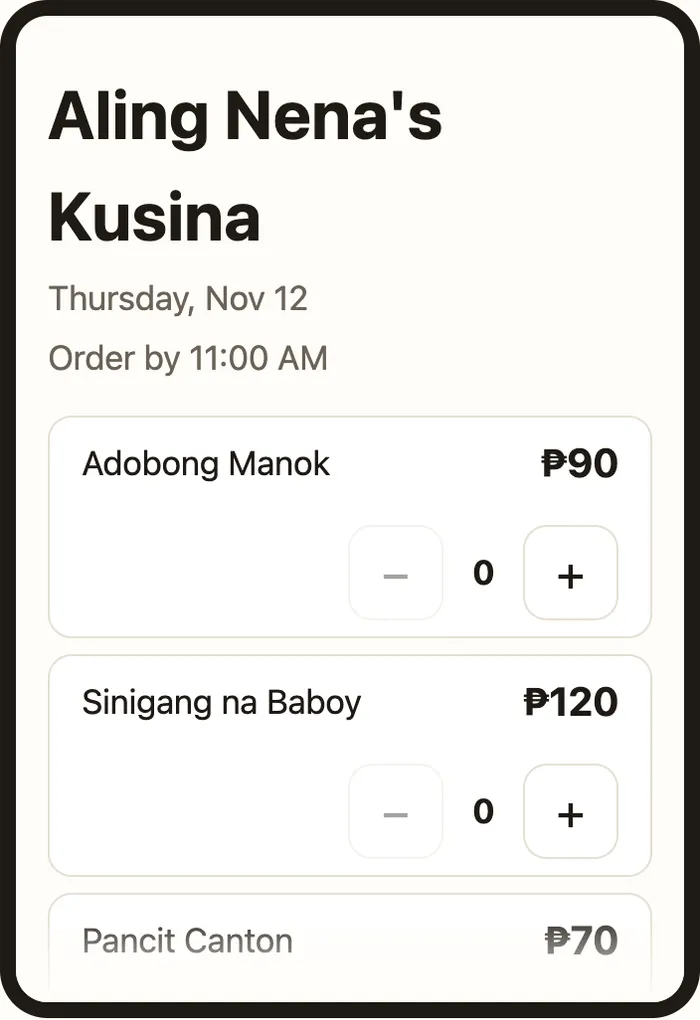
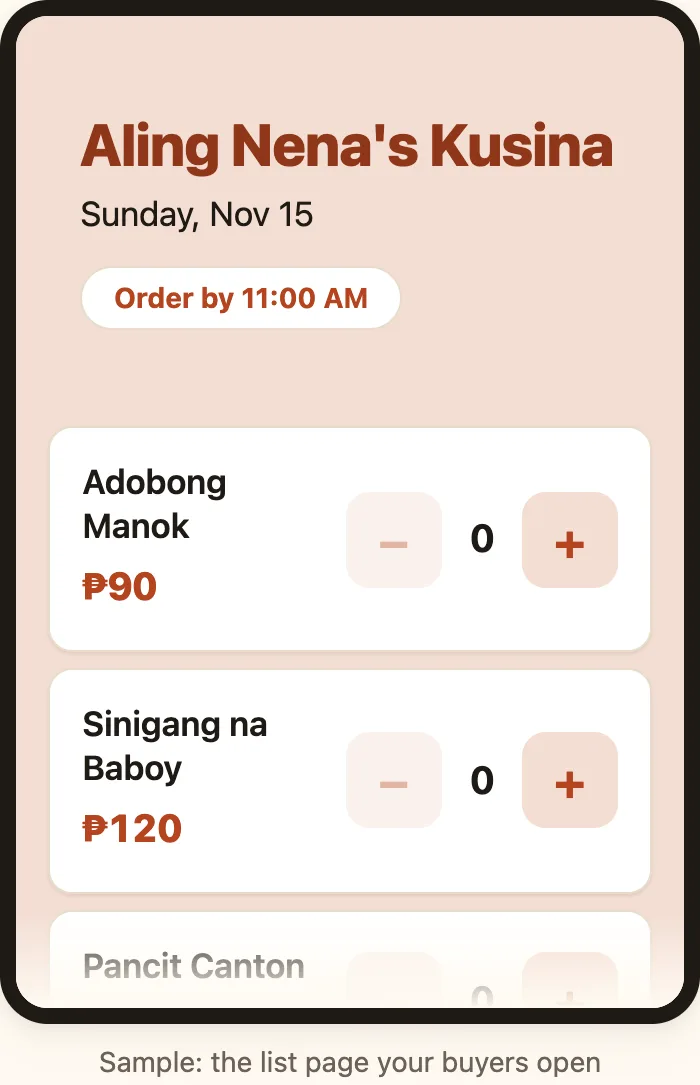
Tinda pages: new screenshots, guide and privacy match the app as of 15 Nov
- Fresh captures of the live home page and guide samples, plus a
  personalize sample.
- Guide follows the app guide and adds rename, terms tick box, item
  descriptions, Make it yours (fonts, backgrounds), buyer notes and
  pickup place.
- Privacy copy matches the app page (order note, backup GCash number,
  reports, Delete my shop).
- How it's built: functions now run in Singapore; privacy row lists the note.

diff --git a/tinda/user_guide.html b/tinda/user_guide.html
@@ -9,9 +9,9 @@
 <link rel="icon" type="image/png" sizes="16x16" href="../assets/favicon/favicon-16.png">
 <link rel="apple-touch-icon" href="../assets/favicon/apple-touch-icon.png">
 <title>Tinda — User Guide — calmdownoscar</title>
-<meta name="description" content="How to use Tinda: set up your shop, add your payment QR, post today&rsquo;s list, share the link, confirm payments and see what to prepare.">
+<meta name="description" content="How to use Tinda: set up your shop, add your payment QR, post today&rsquo;s list, share your list, confirm payments and see what to prepare.">
 <meta property="og:title" content="Tinda — User Guide">
-<meta property="og:description" content="How to use Tinda: set up your shop, add your payment QR, post today&rsquo;s list, share the link, confirm payments and see what to prepare.">
+<meta property="og:description" content="How to use Tinda: set up your shop, add your payment QR, post today&rsquo;s list, share your list, confirm payments and see what to prepare.">
 <meta property="og:type" content="website">
 <meta property="og:url" content="https://www.calmdownoscar.com/tinda/user_guide.html">
 <meta property="og:image" content="https://www.calmdownoscar.com/assets/og/calmdownoscar.jpg">
@@ -69,112 +69,130 @@
         <li><a href="#setup">Sign in and set up your shop</a></li>
         <li><a href="#qr">Add your payment QR</a></li>
         <li><a href="#post">Post today&rsquo;s list</a></li>
-        <li><a href="#share">Share the link</a></li>
+        <li><a href="#share">Share your list and image</a></li>
+        <li><a href="#style">Make it yours (optional)</a></li>
         <li><a href="#confirm">Confirm payments</a></li>
         <li><a href="#chat">Orders from chat or in person</a></li>
         <li><a href="#tally">See what to prepare</a></li>
         <li><a href="#trial">Your free trial</a></li>
+        <li><a href="#help">If you need help</a></li>
         <li><a href="#install">Install Tinda on your phone</a></li>
-        <li><a href="#help">Troubleshooting</a></li>
       </ol>
       <div class="links"><a class="link in" href="./">Tinda</a><a class="link" href="https://tinda.calmdownoscar.com/">Open Tinda</a><a class="link" href="https://tinda.calmdownoscar.com/guide">Live guide</a><a class="link in" href="privacy.html">Privacy policy</a></div>
     </aside>
     <article class="prose">
 <section id="before">
 <h2>Before you start</h2>
-<p>Have your email or Google account, your shop name, and a picture of your own receiving QR ready. Use your phone&rsquo;s browser and keep an internet connection while you set up.</p>
+<ul>
+<li>Your email and a way to open it, or your Google account.</li>
+<li>Your shop name, product names and prices, and a closing time for orders.</li>
+<li>A picture of your own GCash, Maya or bank receiving QR, saved on your phone.</li>
+<li>Optional: your contact number or Messenger link, and one photo for your shop card.</li>
+</ul>
 </section>
 <section id="setup">
 <h2>1. Sign in and set up your shop</h2>
 <ol>
-<li>Open <a href="https://tinda.calmdownoscar.com/">Tinda</a> on your phone and tap <strong>Start selling — 14 days free</strong>. Tap <strong>Continue with Google</strong>, or enter your email, tap <strong>Email me a 6-digit code</strong> and enter the code sent to you.</li>
-<li>Enter your shop name and choose your shop link, for example <code>tinda.calmdownoscar.com/aling-nena</code>. Check the link carefully: it cannot be changed later.</li>
-<li>Add a Messenger link or mobile number if you want buyers to be able to contact you. Read the terms and house rules, tick the agreement box, then tap <strong>Create my shop</strong>.</li>
+<li>Open Tinda and tap <strong>Start selling &mdash; 14 days free</strong>. Tap <strong>Continue with Google</strong>, or enter your email and tap <strong>Email me a 6-digit code</strong>. The first time, you tick a box to accept the terms. Tap <strong>See the house rules</strong> to read them.</li>
+<li>If using email, open the email, return to Tinda, enter the six digits and sign in.</li>
+<li>Enter your shop name and choose your shop link, for example <code>tinda.calmdownoscar.com/aling-nena</code>. Check the link carefully: you cannot change it later.</li>
+<li>Optionally add a mobile number or Messenger link so buyers can contact you. Read the terms, tick the agreement box, and tap <strong>Create my shop</strong>.</li>
 </ol>
+<p>You can rename your shop later from your seller home. Your shop link stays the same.</p>
 </section>
 <section id="qr">
 <h2>2. Add your payment QR</h2>
 <ol>
-<li>Save a picture of the GCash, Maya or bank QR that receives payments into <em>your</em> account.</li>
-<li>Open <strong>Today&rsquo;s list</strong> and scroll to <strong>3. Payment</strong>. Tap <strong>Choose QR picture</strong>, choose your saved picture and wait for <strong>QR saved &#10003;</strong>. You can manage and name up to five QRs from the payment page.</li>
-<li>Optionally add your GCash mobile number as a backup if a QR does not scan. Buyers see these details after they order.</li>
+<li>In your GCash, Maya or bank app, save your receiving QR as a picture on your phone.</li>
+<li>Open <strong>Today&rsquo;s list</strong> and scroll to <strong>4. Payment</strong>. Tap <strong>Choose QR picture</strong>, choose the saved image, and wait for <strong>QR saved &#10003;</strong>. You need at least one receiving QR before you can publish. Buyers see it after they order and pay you directly.</li>
+<li>To manage or change your QRs, open the <a href="https://tinda.calmdownoscar.com/seller/payment">Payment</a> page. You can add up to five QRs and a backup GCash number.</li>
 </ol>
-<p>Use your own receiving QR here. The QR under <strong>Plan and payment</strong> is for paying Tinda&rsquo;s fee; it is not the QR your buyers should pay.</p>
+<p>This is your QR for receiving buyer payments. It is separate from the Tinda QR used to pay for your plan.</p>
 </section>
 <section id="post">
-<h2>3. Make today&rsquo;s list</h2>
+<h2>3. Post today&rsquo;s list</h2>
 <ol>
-<li>On your shop page, tap <strong>Today&rsquo;s list</strong>.</li>
-<li>Under <strong>Your items</strong>, paste one item and its price per line, for example:
+<li>From your shop page, open <strong>Today&rsquo;s list</strong>. In the paste box, put one product and its price on each line. For example:
 <pre>Rice 1 kg 60
 Toilet paper 4 rolls 50
 Adobo 90</pre>
-Tap <strong>Read my post</strong>. You can also tap <strong>or type items</strong> to enter them one by one.</li>
-<li>Check every name and price. Add any line Tinda could not read. Tick <strong>Heading</strong> only for a section title such as &ldquo;Drinks&rdquo;, not for a product. You can optionally set stock limits or hide an item.</li>
-<li>Under <strong>Orders and delivery</strong>, set <strong>Stop taking orders at</strong> to a time still ahead today and choose how long to <strong>Hold unpaid orders for</strong>. If you deliver, tick <strong>I deliver</strong> and add delivery times.</li>
-<li>Optional: turn on <strong>Keep my list up</strong> to copy the list each night with remaining stock. It stops 30 days after your latest manual publish, or if your plan expires. Check the date shown in Tinda; publish an updated list to extend or restart it.</li>
-<li>Under <strong>Payment</strong>, check your receiving QR. Under <strong>Photo of your products (optional)</strong>, you can add one shop photo to the menu image. This is not a separate photo for each item.</li>
-<li>Tap <strong>See what buyers will see</strong> and check the result. Tap it again after making changes. If you are not ready, tap <strong>Save for later</strong>; your draft stays private. When ready, tap <strong>Publish</strong>. After changes to a published list, tap <strong>Update list</strong>.</li>
+</li>
+<li>Tap <strong>Read my post</strong>. Or tap <strong>or type items</strong> to enter them one by one.</li>
+<li>Check every name and price and correct any mistakes. Tick <strong>Heading</strong> for a section title that is not a product, such as Drinks. Optionally enter how many of each item you have. Each item can have a short description (up to 120 characters). Buyers see it under the item name.</li>
+<li>Under Orders and delivery, set <strong>Stop taking orders at</strong> to a time later than now. Choose how long to <strong>Hold unpaid orders for</strong>. Pickup is available; if you deliver, tick <strong>I deliver</strong> and add delivery times. If you offer pickup, add your pickup place under Orders and delivery (up to 120 characters). It shows only on pickup receipts.</li>
+<li>Optionally tick <strong>Keep my list up</strong>. Each night Tinda puts up a copy for the next day with the stock left. It starts after you publish, and stops if you do not publish again for 30 days or your plan is unpaid. Publish again to restart or extend it.</li>
+<li>Optionally add one photo of your products for your shop card. This is one shop picture, not a photo for each item.</li>
+<li>Check the preview that appears beside your list. Tap <strong>Save for later</strong> to keep a draft private, or <strong>Publish</strong> to make it available to buyers. After changing a published list, tap <strong>Update list</strong>.</li>
 </ol>
-<p>Tomorrow, tap <strong>Copy yesterday&rsquo;s list</strong> on your shop page, change what is different and publish, or use <strong>Keep my list up</strong>.</p>
 </section>
 <section id="share">
-<h2>4. Save your menu image and share the link</h2>
+<h2>4. Share your list and image</h2>
 <ol>
-<li>After publishing, open the sharing options and tap <strong>Save menu image</strong>. The picture includes your list and prices. It can grow to show up to 50 rows, including headings.</li>
-<li>Look for the downloaded picture in your phone&rsquo;s Downloads or Files as well as Photos. If the picture opens instead of downloading, use your browser&rsquo;s image menu to save it; the steps vary by phone and browser.</li>
-<li>Tap <strong>Copy link</strong>. Open Facebook, Messenger or Viber, tap the app&rsquo;s photo button and attach the saved picture to your post or message, then touch and hold in the text area and tap Paste to add the clickable link. Send or post both so buyers can open the link and order.</li>
-<li>On supported phones, you can also tap <strong>Share&hellip;</strong> to choose where to share the link.</li>
+<li>After publishing, tap <strong>Copy link</strong>. Open your Facebook, Messenger or Viber group or chat, touch and hold the message box, then paste the link and send or post it. You can also use <strong>Share&hellip;</strong> if it appears on your phone.</li>
+<li>Tap <strong>Save menu image</strong> to download a picture of your list. Look in Files or Downloads if you cannot find it. On some phones the image opens first; use the phone&rsquo;s image menu to save it.</li>
+<li>In your group or chat, use the photo attachment option and choose the saved image. Paste the copied link in the caption or a message, then send or post both so people can see the products and open the full list to order.</li>
 </ol>
+<p>The link preview in a chat may leave out some rows. The saved menu image grows to fit up to 50 rows, including headings; use short names to help them fit. The full list is available through the link.</p>
+<p>After changing a list, tap <strong>Update list</strong>, then save and post a new image. An image already posted does not change. Chat apps may also keep an older cached link preview, even when the list has changed.</p>
 <p><a href="https://tinda.calmdownoscar.com/og/sample?size=square">See an example saved menu image</a>.</p>
-<p>A chat link preview shows only up to six rows, or four when your shop photo is included. Share the link even with the saved picture so buyers can see the full list and order.</p>
-<p>After editing, tap <strong>Update list</strong>, save a new menu image and post it again. Pictures already posted do not change, and a chat service may keep an older cached preview.</p>
 <figure class="wide">
-<img src="../assets/screens/tinda-preview.webp" alt="Example chat preview card for Aling Nena&rsquo;s Kusina showing items and prices" width="1200" height="630" loading="lazy">
-<figcaption class="note-sm">Example: a chat link preview. Your list and appearance will differ.</figcaption>
+<img src="../assets/screens/tinda-preview.webp" alt="Sample menu card for Aling Nena&rsquo;s Kusina showing items and prices" width="1200" height="630" loading="lazy">
+<figcaption class="note-sm">Sample: a link preview card. The saved menu image can show more rows.</figcaption>
+</figure>
+</section>
+<section id="style">
+<h2>Make it yours (optional)</h2>
+<p>On Today&rsquo;s list, or under Menu picture and photo on your seller home, choose the style, colour, font and background of your menu picture and shop page. Fonts: Payak (the default), Bilog, Sulat-kamay, Klasiko and Malaki. Backgrounds: cream (the default) and five other tints. Changes save by themselves, and the preview updates as you go.</p>
+<figure>
+<img src="../assets/screens/tinda-personalize.webp" alt="Sample screen: a menu picture with a shop photo across the top, a custom heading and today&rsquo;s items and prices" width="700" height="545" loading="lazy">
+<figcaption class="note-sm">Sample: a menu picture personalized with a shop photo and heading.</figcaption>
 </figure>
 </section>
 <section id="confirm">
 <h2>5. Confirm payments</h2>
 <ol>
-<li>Open <strong>Orders</strong>. An unpaid order holds its items for a limited time while the buyer pays.</li>
-<li>When a buyer sends a reference number, check the payment in your own GCash, Maya or bank app. If it arrived, tap <strong>Paid &#10003;</strong>.</li>
-<li>If you cannot find it, tap <strong>Can&rsquo;t find it</strong> so the buyer can check and enter the number again, up to three tries in all. If you tapped paid by mistake, tap <strong>Undo</strong> within 10 minutes.</li>
-<li>If no reference arrives in time, the order ends and the items return to the list.</li>
+<li>When a buyer orders, the items are held while they pay. If no reference arrives in time, the order ends and the items return to the list.</li>
+<li>Open <strong>Orders</strong> when a buyer enters a payment reference. Check your GCash, Maya or bank app for the payment, then tap <strong>Paid &#10003;</strong>.</li>
+<li>If you cannot find it, tap <strong>Can&rsquo;t find it</strong>. The buyer can check and enter the reference again, up to three tries in all. If you tap Paid by mistake, tap <strong>Undo</strong> within 10 minutes.</li>
 </ol>
+<p>Buyers can add a short note to their order (up to 140 characters). You see it in your order list, and it is on their receipt.</p>
+<p>If buyers report a problem, we may pause your shop while we look into it. You&rsquo;ll get an email and can reply to it.</p>
 </section>
 <section id="chat">
 <h2>6. Orders from chat or in person</h2>
-<ol><li>Open <strong>Orders</strong> and tap <strong>Add an order from chat</strong> for a buyer who contacted you directly. Enter their order and details, then tap <strong>Add order</strong>. It counts toward stock and the tally.</li></ol>
+<p>Open <strong>Orders</strong> and tap <strong>Add an order from chat</strong>. Choose the items, enter the buyer details, then tap <strong>Add order</strong>. It counts toward your stock and tally.</p>
 </section>
 <section id="tally">
 <h2>7. See what to prepare</h2>
-<ol><li>Open <strong>Orders</strong> and look at the <strong>Tally</strong> to see how many of each item to prepare, including pickup and delivery counts.</li></ol>
+<p>Open <strong>Orders</strong> and scroll to <strong>Tally</strong> to see how many of each item to prepare, split into pickups and deliveries.</p>
 </section>
 <section id="trial">
 <h2>8. Your free trial</h2>
+<p>Your first 14 days are free. After that, Tinda is &#8369;59 a month or &#8369;590 a year (2 months free).</p>
 <ol>
-<li>Your first 14 days are free. After that, Tinda costs &#8369;59 a month or &#8369;590 a year.</li>
-<li>To pay, open <strong>Plan and payment</strong> on your shop page. Pay Tinda&rsquo;s QR with GCash or Maya, then send the reference number there. We check it, usually within a day.</li>
-<li>Nothing renews by itself. To stop, do not pay again. If you change your mind, ask within 7 days of paying for a full refund.</li>
+<li>Open <strong>Plan and payment</strong> on your shop page.</li>
+<li>Pay the Tinda QR with GCash or Maya and enter the reference number. We check it, usually within a day.</li>
+<li>Nothing renews by itself. To stop, just don&rsquo;t pay again. If you change your mind, ask within 7 days of paying for a full refund.</li>
 </ol>
 </section>
-<section id="install">
-<h2>9. Install Tinda on your phone</h2>
-<ol>
-<li>On Android, open your seller home in Chrome, tap the &#8942; menu, then <strong>Add to Home screen</strong>.</li>
-<li>On iPhone, open your seller home in Safari, tap Share, then <strong>Add to Home Screen</strong>.</li>
-</ol>
-<h3 id="help">Troubleshooting</h3>
+<section id="help">
+<h2>If you need help</h2>
 <ul>
-<li><strong>An item is missing:</strong> check for lines Tinda could not read and add them, or tap <strong>Add item</strong>. Update the published list.</li>
-<li><strong>A price is missing or wrong:</strong> edit the price on the item, then update the published list.</li>
-<li><strong>A product looks like a title:</strong> untick <strong>Heading</strong> for that product and check its price.</li>
-<li><strong>Publish is off:</strong> read the message below the button and fix each item it names, such as a missing QR or a closing time that has passed.</li>
-<li><strong>Cannot find the image:</strong> check Downloads or Files. If it opened in the browser, use the image menu to save it.</li>
-<li><strong>No orders:</strong> check that you published, shared the clickable link, and that the list is still open. Ask a buyer to open the link to check it.</li>
+<li><strong>Publish is grey:</strong> read the reasons shown beside it and fix each one, such as a missing QR or a closing time that has passed.</li>
+<li><strong>A product is missing:</strong> check that <strong>Heading</strong> is unticked for that product and enter its price, then publish or update the list.</li>
+<li><strong>A name or price is wrong:</strong> edit it on today&rsquo;s list, check the preview, then publish or update the list. Save and post a new image too.</li>
+<li><strong>The image did not download:</strong> check Files or Downloads, or use the image menu if your phone opened it instead.</li>
+<li><strong>No orders yet:</strong> check that your list is published and share the clickable link with your image. Open the link to check what buyers see.</li>
+<li><strong>Coming back tomorrow:</strong> open your shop and tap <strong>Copy yesterday&rsquo;s list</strong>, change what is different and publish. If Keep my list up is on, check the copied list and stock; it stops after 30 days without a new publish.</li>
 </ul>
-<p>More questions? See the <a href="https://tinda.calmdownoscar.com/faq">FAQ</a> or the <a href="https://tinda.calmdownoscar.com/guide">live guide</a>.</p>
+</section>
+<section id="install">
+<h2>Install Tinda on your phone</h2>
+<ol>
+<li><strong>Android (Chrome):</strong> open your seller home, tap the &#8942; menu, then <strong>Add to Home screen</strong>.</li>
+<li><strong>iPhone (Safari):</strong> open your seller home, tap Share, then <strong>Add to Home Screen</strong>.</li>
+</ol>
+<p>Questions? See the <a href="https://tinda.calmdownoscar.com/faq">FAQ</a> or the <a href="https://tinda.calmdownoscar.com/guide">live guide</a>.</p>
 </section>
     </article>
   </div>

diff --git a/tinda/index.html b/tinda/index.html
@@ -73,12 +73,13 @@
         <p>The home page, and sample screens from the user guide. The sample screens use made-up shops and orders.</p>
       </div>
       <ul class="gal">
-        <li><figure><img src="../assets/screens/tinda-home.webp" alt="The Tinda home page on a phone: a striped awning, the line &ldquo;Your daily list, one link.&rdquo;, and a button to start selling" width="700" height="1515" loading="lazy"><figcaption>The Tinda home page.</figcaption></figure></li>
-        <li><figure><img src="../assets/screens/tinda-buyer-list.webp" alt="Sample screen: the list page a buyer opens, with today&rsquo;s items and prices" width="700" height="1020" loading="lazy"><figcaption>Sample screen: the list page your buyers open.</figcaption></figure></li>
-        <li><figure><img src="../assets/screens/tinda-confirm.webp" alt="Sample screen: an order from Maria Santos with a payment reference, and buttons to confirm, say it can&rsquo;t be found, or cancel" width="700" height="748" loading="lazy"><figcaption>Sample screen: an order waiting for the seller to confirm payment.</figcaption></figure></li>
-        <li><figure><img src="../assets/screens/tinda-tally.webp" alt="Sample screen: the tally showing how many of each item to prepare, split into pickups and deliveries" width="700" height="990" loading="lazy"><figcaption>Sample screen: the tally of what to prepare.</figcaption></figure></li>
-        <li><figure><img src="../assets/screens/tinda-checklist.webp" alt="Sample screen: the checklist a seller sees after setting up a shop" width="700" height="1020" loading="lazy"><figcaption>Sample screen: the seller&rsquo;s checklist after setting up a shop.</figcaption></figure></li>
-        <li class="wide"><figure><img src="../assets/screens/tinda-preview.webp" alt="Sample chat preview card for Aling Nena&rsquo;s Kusina showing today&rsquo;s items and prices" width="1200" height="630" loading="lazy"><figcaption>Sample screen: the preview picture of today&rsquo;s list that shows in a group chat.</figcaption></figure></li>
+        <li><figure><img src="../assets/screens/tinda-home.webp" alt="The Tinda home page on a phone: a striped awning, the headline &ldquo;No more counting orders in the group chat.&rdquo;, and buttons to start selling or sign in" width="700" height="1516" loading="lazy"><figcaption>The Tinda home page.</figcaption></figure></li>
+        <li><figure><img src="../assets/screens/tinda-buyer-list.webp" alt="Sample screen: the list page a buyer opens for Aling Nena&rsquo;s Kusina, with the order-by time and items with prices and plus and minus buttons" width="700" height="1085" loading="lazy"><figcaption>Sample screen: the list page your buyers open.</figcaption></figure></li>
+        <li><figure><img src="../assets/screens/tinda-confirm.webp" alt="Sample screen: an order from Maria Santos with a payment reference number, and buttons for Paid, Can&rsquo;t find it and Cancel" width="700" height="824" loading="lazy"><figcaption>Sample screen: an order waiting for the seller to confirm payment.</figcaption></figure></li>
+        <li><figure><img src="../assets/screens/tinda-tally.webp" alt="Sample screen: the tally showing how many of each item to prepare, split into pickups and deliveries, with a button to copy it for Messenger" width="700" height="1055" loading="lazy"><figcaption>Sample screen: the tally of what to prepare.</figcaption></figure></li>
+        <li><figure><img src="../assets/screens/tinda-checklist.webp" alt="Sample screen: the Getting started checklist a seller sees after setting up a shop, with the next step, adding a payment QR, open" width="700" height="1085" loading="lazy"><figcaption>Sample screen: the seller&rsquo;s checklist after setting up a shop.</figcaption></figure></li>
+        <li><figure><img src="../assets/screens/tinda-personalize.webp" alt="Sample screen: a menu picture with a shop photo across the top, a custom heading and today&rsquo;s items and prices" width="700" height="545" loading="lazy"><figcaption>Sample screen: a menu picture personalized with a shop photo and heading.</figcaption></figure></li>
+        <li class="wide"><figure><img src="../assets/screens/tinda-preview.webp" alt="Sample chat preview card for Aling Nena&rsquo;s Kusina showing today&rsquo;s items and prices, with one item sold out" width="1200" height="630" loading="lazy"><figcaption>Sample screen: the preview picture of today&rsquo;s list that shows in a group chat.</figcaption></figure></li>
       </ul>
     </div>
   </section>
@@ -111,7 +112,7 @@
         <li class="row"><span>pg_cron</span><div><p>Scheduled jobs inside the database. They release unpaid reservations every 5 minutes, delete old orders nightly at 03:30 Manila time, and carry a seller&rsquo;s list forward just after midnight.</p></div></li>
         <li class="row"><span>Zod</span><div><p>Every form and API input is validated on the server before it reaches the database.</p></div></li>
         <li class="row"><span>next/og and sharp</span><div><p>next/og generates the link-preview picture of today&rsquo;s list that shows in Facebook groups and Viber chats. sharp resizes uploaded photos.</p></div></li>
-        <li class="row"><span>Vercel</span><div><p>Hosting, a global CDN for public pages, and a preview deploy for each branch.</p></div></li>
+        <li class="row"><span>Vercel</span><div><p>Hosting, a global CDN for public pages, and a preview deploy for each branch. Server functions run in Singapore, next to the database.</p></div></li>
         <li class="row"><span>Vitest, PGlite and jsdom</span><div><p>900+ test cases, including a database suite that runs the real migrations and policies in-process on PGlite (real Postgres compiled to WebAssembly).</p><span class="sub">GitHub Actions runs lint, typecheck, tests, a production build and a bundle scan. The scan fails if the server-only database key ever appears in browser code.</span></div></li>
         <li class="row"><span>Payments</span><div><p>The buyer pays the seller&rsquo;s own GCash or Maya QR. Tinda never holds buyers&rsquo; money.</p></div></li>
       </ul>
@@ -131,8 +132,8 @@
         <li class="row"><span>Security headers</span><div><p>A strict Content-Security-Policy limited to the site and its database, HSTS, no framing, and no camera, microphone or location access.</p></div></li>
         <li class="row"><span>Speed</span><div><p>Public pages are server-rendered and CDN-cached. The seller&rsquo;s order board refreshes every 20 seconds and pauses when the tab is hidden. There is no client-side analytics and there are no third-party scripts to slow pages down.</p><span class="sub">The shared link&rsquo;s preview image is cached, so it can be up to two hours behind on sold-out items. The list page itself is always current.</span></div></li>
         <li class="row"><span>Scaling out</span><div><p>Stateless serverless functions scale out on demand. Concurrency correctness lives in Postgres, not in app memory, so more traffic means more function instances, not new bugs.</p></div></li>
-        <li class="row"><span>Privacy by design</span><div><p>Tinda collects only a name, a unit or address, an optional phone number and a payment reference. Orders are deleted automatically after 60 days, in line with the Philippine Data Privacy Act.</p></div></li>
-        <li class="row"><span>Next at scale</span><div><p>Move the server functions into the same region as the database (they currently run in US East while the database is in Singapore), move hosting to a paid plan before charging, and add automatic checkout once a payment provider is set up.</p></div></li>
+        <li class="row"><span>Privacy by design</span><div><p>Tinda collects only a name, a unit or address, an optional phone number, an optional short note to the seller and a payment reference. Orders are deleted automatically after 60 days, in line with the Philippine Data Privacy Act.</p></div></li>
+        <li class="row"><span>Next at scale</span><div><p>Move hosting to a paid plan before charging, and add automatic checkout once a payment provider is set up.</p></div></li>
       </ul>
     </div>
   </section>

diff --git a/tinda/privacy.html b/tinda/privacy.html
@@ -47,7 +47,7 @@
   <section class="wrap intro" aria-label="Introduction">
     <div class="app-id"><img src="../assets/icons/tinda.png" alt="" width="44" height="44"><p class="label">Tinda · Privacy</p></div>
     <h1 class="lede">Privacy</h1>
-    <p class="by">Last updated: 12 November 2026. This is a copy. The version that applies is always <a href="https://tinda.calmdownoscar.com/privacy">tinda.calmdownoscar.com/privacy</a>.</p>
+    <p class="by">Last updated: 13 November 2026. This is a copy. The version that applies is always <a href="https://tinda.calmdownoscar.com/privacy">tinda.calmdownoscar.com/privacy</a>.</p>
   </section>
 
   <div class="wrap doc">
@@ -59,6 +59,7 @@
         <li><a href="#who">Who sees it</a></li>
         <li><a href="#where">Where it&rsquo;s kept</a></li>
         <li><a href="#how-long">How long</a></li>
+        <li><a href="#reports">Reports</a></li>
         <li><a href="#sooner">Deleting sooner</a></li>
         <li><a href="#backups">Backups</a></li>
         <li><a href="#payments">Payments</a></li>
@@ -71,8 +72,8 @@
 <section id="collect">
 <h2>What we collect</h2>
 <ul>
-<li><strong>When you order:</strong> your name, your unit or address, your phone number (optional), and the payment reference number you enter.</li>
-<li><strong>When you sell:</strong> your email address (for sign-in), your shop name, how buyers can reach you, and your payment QR image. When you pay for Tinda we keep the reference number you sent, the amount, the dates you paid and were confirmed, and a record of any refund or change the owner made. These are payment records. They are not deleted automatically while your shop exists. If you add a photo to your preview picture, it is shown to anyone who has your list link. The picture in a chat preview can be up to two hours behind on what is sold out. The list page itself is always current.</li>
+<li><strong>When you order:</strong> your name, your unit or address, your phone number (optional), a short note to the seller (optional), and the payment reference number you enter. The note is kept only with the order and is deleted with it.</li>
+<li><strong>When you sell:</strong> your email address (for sign-in), your shop name, how buyers can reach you, and your payment QR images. Your backup GCash number, if you add one. Buyers see it only on their order page while payment is due. It is deleted with your shop. When you pay for Tinda we keep the reference number you sent, the amount, the dates you paid and were confirmed, and a record of any refund or change the owner made. These are payment records. They are not deleted automatically while your shop exists. If you add a photo to your preview picture, it is shown to anyone who has your list link. The picture in a chat preview can be up to two hours behind on what is sold out. The list page itself is always current. If we pause a shop after a report, we keep a scrambled copy of its sign-in email so it can&rsquo;t open a new shop while paused, and for up to 1 year after the shop is deleted. We keep a record of pause decisions for 1 year. When you open a shop we record that you agreed to our terms and when. We keep that record until your account is deleted.</li>
 </ul>
 </section>
 <section id="why">
@@ -83,6 +84,7 @@
 <h2>Who sees it</h2>
 <ul>
 <li>The seller you ordered from.</li>
+<li>If a seller sets a pickup place, only buyers who ordered pickup see it, on their receipt.</li>
 <li>Tinda, as the service, and our hosting providers, Supabase (database and files) and Vercel (website), which process it for us.</li>
 </ul>
 </section>
@@ -99,11 +101,15 @@
 <li>We count requests per network address, also as a scrambled code, to stop abuse. Those counts are deleted within 2 days.</li>
 </ul>
 </section>
+<section id="reports">
+<h2>Reports</h2>
+<p>If you report a problem, we keep your email, the reason, what you wrote, and a copy of the order&rsquo;s items, total, status and reference number. We use your email only to reply about that report. We delete a report 90 days after we close it, or 7 days after we dismiss it. If we haven&rsquo;t finished with a report, we delete it 180 days after it was sent. Copies of our replies stay in our mailbox, and our email provider keeps delivery records. A report stays even if the order or shop is deleted, until those times. Our moderation log (what we decided about a shop, with a short note) is kept for 1 year. If a report is about illegal or harmful content, we may put the shop on hold. We then keep a copy of the shop&rsquo;s details, lists, pictures, orders (including buyers&rsquo; names, addresses, phone numbers, notes and payment references) and reports, even if an order or the shop would otherwise be deleted, until we release the hold. We may give that copy to the authorities. After release we delete the copy and keep only a note that there was a hold, for 1 year.</p>
+</section>
 <section id="sooner">
 <h2>Deleting sooner</h2>
 <ul>
 <li><strong>Buyers:</strong> after the order day, open your receipt and tap &ldquo;Delete my order&rdquo;. You can also ask the seller, or email us at <a href="mailto:help@calmdownoscar.com">help@calmdownoscar.com</a> from the receipt link. We confirm the request with the receipt link or with the seller.</li>
-<li><strong>Sellers:</strong> email us to close your shop. We delete your shop, menus, orders and QR image.</li>
+<li><strong>Sellers:</strong> tap Delete my shop on your shop home. We delete your shop, lists and orders straight away, then your payment QR, photos and sign-in; if that last step fails, we finish it as soon as we can. Link previews already shared in chats may show your old list for up to about 2 hours, and we can&rsquo;t remove copies in other people&rsquo;s chats or phones. We keep a scrambled copy of your link name for 90 days so nobody else can take it, and short-lived security counters expire within 2 days.</li>
 </ul>
 </section>
 <section id="backups">
